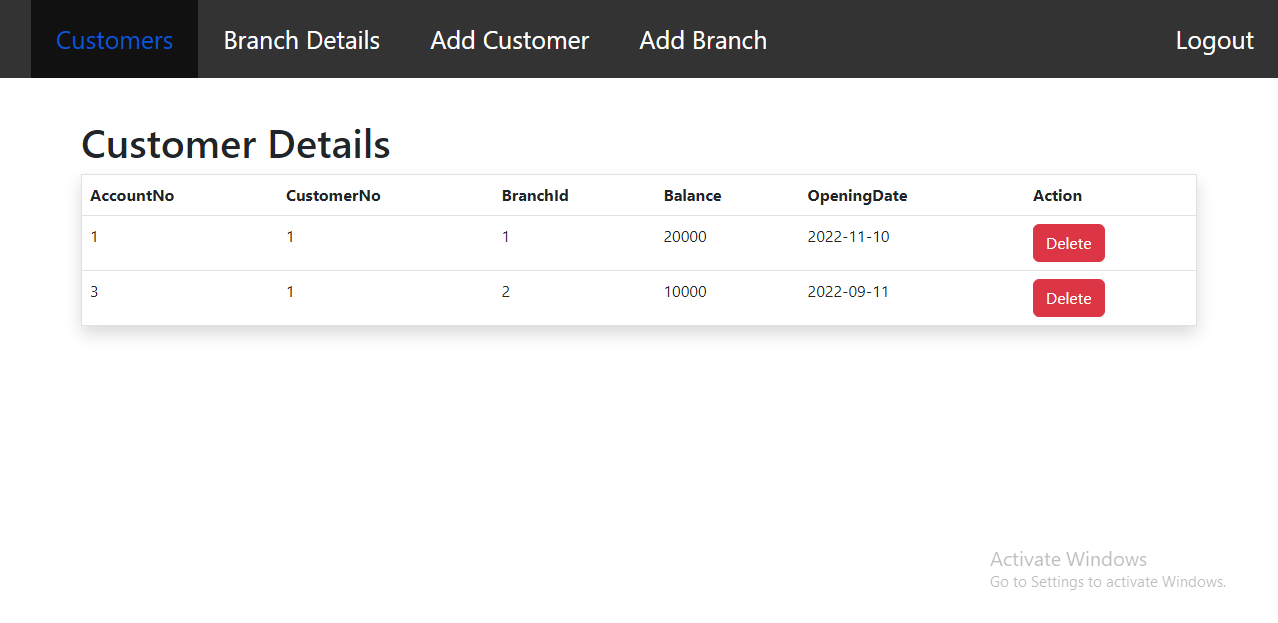
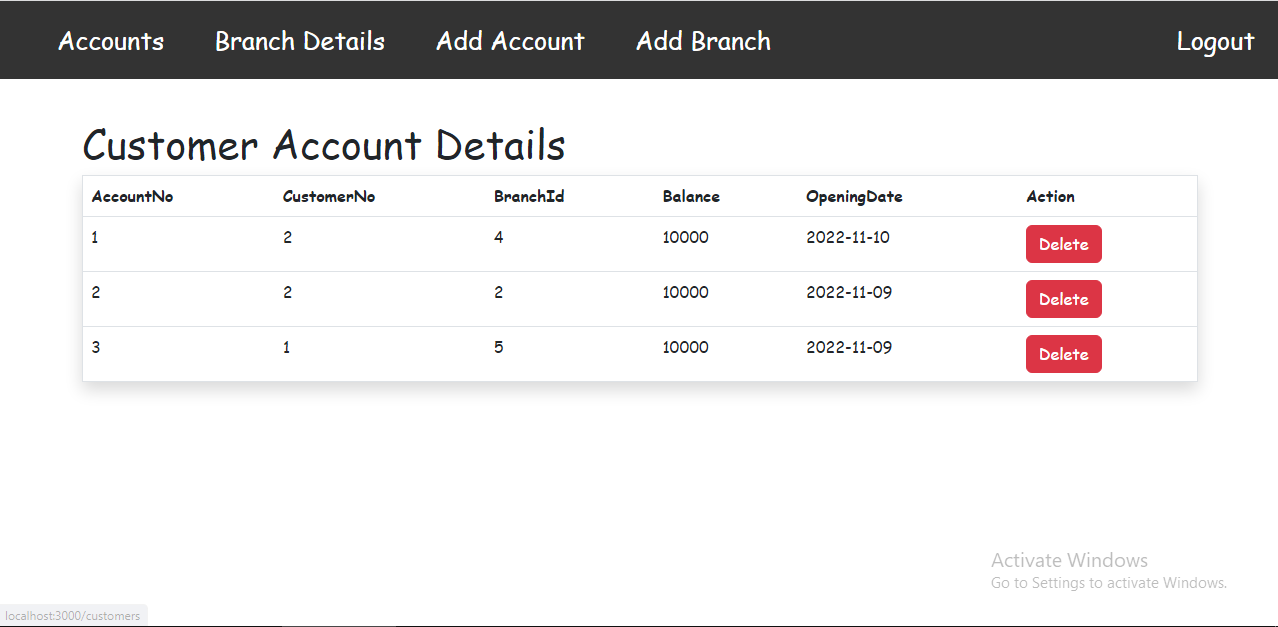
Fix dashboard and reuploaded some screenshots

diff --git a/src/components/CustomerAccount/CustomerAccount.js b/src/components/CustomerAccount/CustomerAccount.js
@@ -117,16 +117,22 @@ const CustomerAccount=props=>
           }
           catch(err)
           {
-            Swal.fire({
-              title: err.response.data,
-              type: "success", 
-              confirmButtonText: 'Ok'
-            }).then((result) => {  if (result.isConfirmed) { navigate("/add-branch")}});
+            if(err.response.status === 400) {
+                Swal.fire({
+                    title: err.response.data,
+                    type: "success", 
+                    confirmButtonText: 'Ok'
+                  }).then((result) => {  if (result.isConfirmed) { navigate("/add-account")}});
+            } else {
+                Swal.fire({
+                    title: "Bad Request! Make sure the values are not empty ",
+                    type: "success", 
+                    confirmButtonText: 'Ok'
+                  }).then((result) => {  if (result.isConfirmed) { navigate("/add-account")}});
+            }
           }
         };
-                             
-   
-    
+                              
     return (
     <>
         {isLoggedin?

diff --git a/src/App.js b/src/App.js
@@ -8,6 +8,7 @@ import Login from "./components/Login/Login";
 import NotFound from "./components/NotFound/NotFound";
 import Branch from "./components/Branch/Branch";
 import CustomerAccount from "./components/CustomerAccount/CustomerAccount";
+import Dashboard from "./components/Dashboard/Dashboard";
 
 
 function App() {
@@ -22,6 +23,7 @@ function App() {
       <Routes>
 
       <Route path="/" element={<Home />} />
+      <Route path="/dashboard" element={<Dashboard />} />
       <Route path="/login" element={<Login />} />
       <Route path="/branchs" element={<BranchDetails />} />
       <Route path="/customers" element={<Customer />} />

diff --git a/src/components/CustomerDetails/Customer.js b/src/components/CustomerDetails/Customer.js
@@ -57,7 +57,7 @@ const Customer = props => {
         <Dashboard />
          <div className="container">
       <div className="py-4">
-        <h1>Customer Details</h1>
+        <h1>Customer Account Details</h1>
         <table className="table border shadow table-hover">
           <thead className="thead-dark">
             <tr>

diff --git a/src/components/Dashboard/Dashboard.js b/src/components/Dashboard/Dashboard.js
@@ -15,7 +15,7 @@ const Dashboard = (props) => {
     <div>
       <ul>
         <li>
-          <Link to="/customers">Customers</Link>
+          <Link to="/customers">Accounts</Link>
         </li>
         <li>
           <Link to="/branchs">Branch Details</Link>
